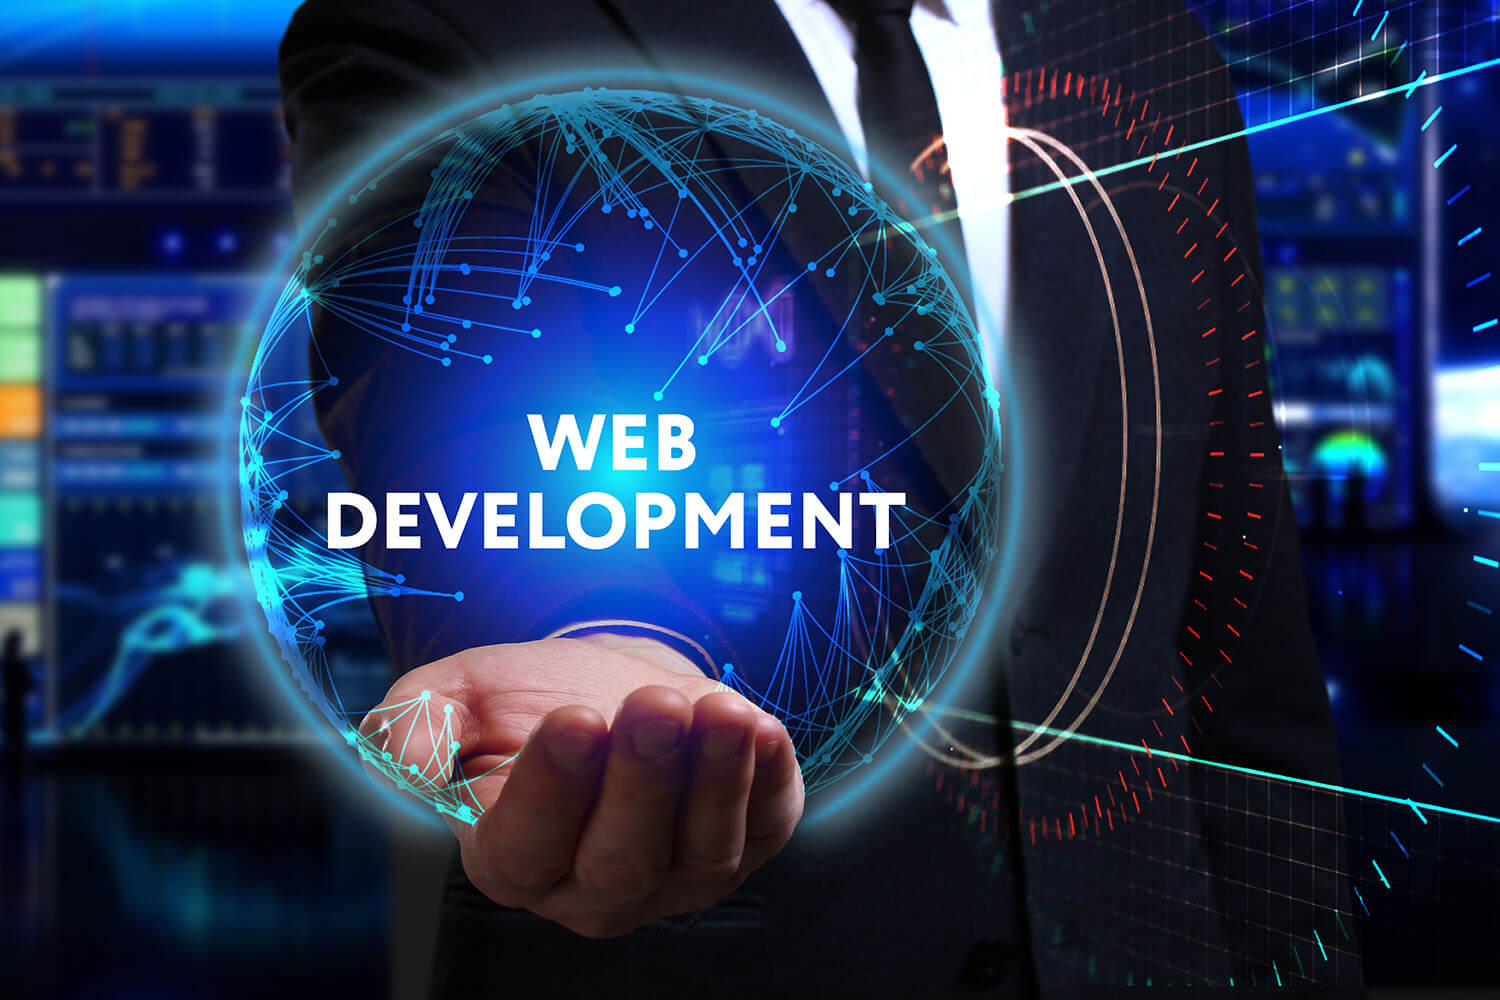
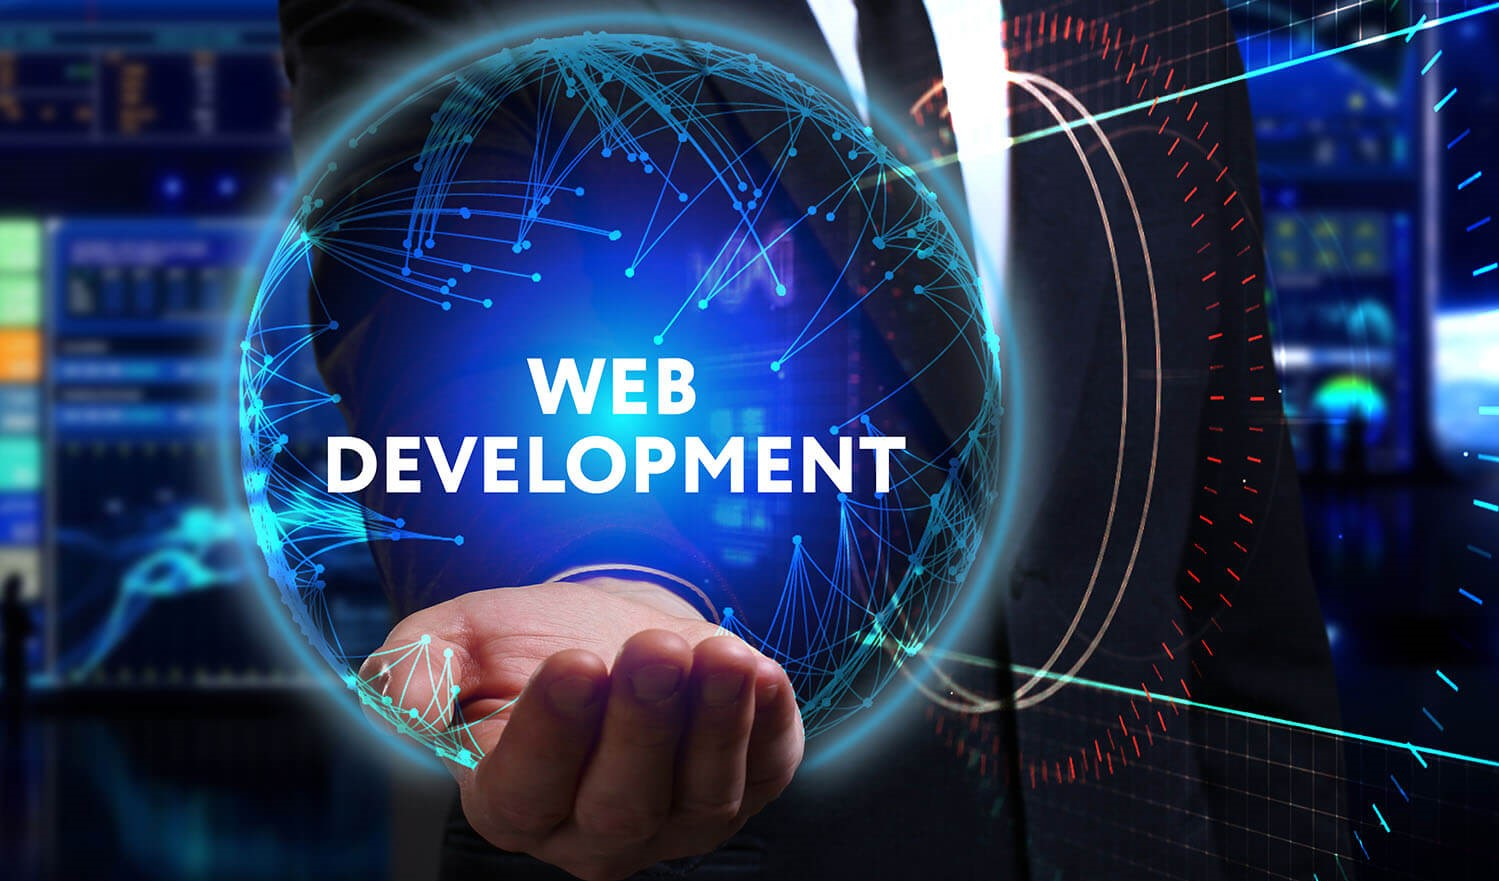
developed the main content area

diff --git a/index.html b/index.html
@@ -13,67 +13,107 @@
     <header>
       <h1>My Portfolio</h1>
       <nav>
-        <a href="#aboutMe">About Me</a>
-        <a href="#myWork">My Work </a>
-        <a href="#contactMe">Contact Me</a>
+        <a href="#about">About</a>
+        <a href="#work">Work </a>
+        <a href="#contact">Contact</a>
       </nav>
+
+      <div id="searchForm">
+        <input id='searchText' type="text" placeholder="  Search">
+        <input id='searchBtn' type="button" value="Search">
+      </div>
+
     </header>
 
     <!-- hero section where a big photo will cover background -->
     <section class="heroSection">
       <div>
-      
-      </div>
-      
+        <img src="/Week2/Portfolio-CSS-Challenge/assets/images/hero.jpg" alt="Photo about web development">
+        
+      </div>      
     </section>
-
-    <aside>
-      <p>Lorem ipsum dolor sit amet consectetur adipisicing elit. Sapiente quos veritatis cupiditate? Cumque iusto accusantium facilis aliquid, molestias in itaque quae dolorem quis voluptates ipsa perferendis sed necessitatibus quisquam expedita.
-      Ipsum asperiores magni eligendi ut excepturi hic quod tempora ipsam impedit veniam natus qui ratione animi debitis possimus quibusdam, quae placeat rem facere accusantium provident deleniti? Fugiat rem numquam obcaecati.
-      Laborum iusto sequi deleniti animi error. Expedita sint eum, maxime nam ratione modi dignissimos distinctio illo aliquam porro, eveniet praesentium sequi fugit magnam corrupti excepturi tempora accusantium dolore corporis soluta?
-      Laudantium, eum? Distinctio laborum explicabo nostrum tempora illum, quidem aliquam tenetur natus debitis id saepe sint, atque accusantium, nemo optio animi perspiciatis dolor. Incidunt corporis eum consequatur tempore libero numquam?
-      Possimus maxime in rem. Modi eaque nihil libero quibusdam earum, molestias qui perspiciatis laboriosam, ipsam debitis aut aliquid tempora reiciendis. Beatae et accusamus provident ex velit aliquam, eveniet adipisci esse.</p>
-    </aside>
+    
+    
+    
 
     <main id='main' class="mainWrapper">
-      <!-- aside section -->
-      
-      <div id="container">
+
+      <div class="container">
+        <!-- aside section -->
+        <aside>
+        <h2>About Me</h2>
+        </aside>
         <!-- about me -->
-        <section class="about" id="about">
+        <section class="content" id="about">
           <h2>About Me</h2>
+          <p>Lorem ipsum dolor sit amet consectetur, adipisicing elit. Sint voluptatum eligendi minus provident voluptas ratione, quo esse unde expedita harum dolore. Unde architecto itaque quisquam autem, facere rerum ipsa! Quo!
+            Nam quaerat sequi reprehenderit itaque numquam unde ut veniam sed repudiandae facere! Libero consectetur maxime qui alias dolorum ad amet ducimus expedita id vitae nobis illum modi quisquam, explicabo consequuntur.
+            Aliquid molestias voluptatibus, dolorum quod aut, quia repudiandae eos a nobis blanditiis soluta rerum aliquam quaerat aperiam, illo itaque? Itaque vero nobis rem dignissimos hic reprehenderit cumque libero ab veritatis.
+            Ipsum, blanditiis aperiam id placeat accusantium exercitationem architecto in aliquam consequuntur quasi, a ut, voluptatem dolores omnis expedita perferendis. Ipsam architecto amet iusto pariatur libero in distinctio laudantium omnis. Perspiciatis.
+            Facere id dolorem, tempore nobis animi possimus repellendus, commodi beatae, tempora inventore consequuntur! Itaque, voluptatum a sed quibusdam repudiandae, ipsa eaque natus tempora, eveniet dolores error ullam molestiae ipsum eius.
+          </p>
+          <p>Lorem ipsum dolor sit amet consectetur, adipisicing elit. Sint voluptatum eligendi minus provident voluptas ratione, quo esse unde expedita harum dolore. Unde architecto itaque quisquam autem, facere rerum ipsa! Quo!
+            Nam quaerat sequi reprehenderit itaque numquam unde ut veniam sed repudiandae facere! Libero consectetur maxime qui alias dolorum ad amet ducimus expedita id vitae nobis illum modi quisquam, explicabo consequuntur.
+            Aliquid molestias voluptatibus, dolorum quod aut, quia repudiandae eos a nobis blanditiis soluta rerum aliquam quaerat aperiam, illo itaque? Itaque vero nobis rem dignissimos hic reprehenderit cumque libero ab veritatis.
+            Ipsum, blanditiis aperiam id placeat accusantium exercitationem architecto in aliquam consequuntur quasi, a ut, voluptatem dolores omnis expedita perferendis. Ipsam architecto amet iusto pariatur libero in distinctio laudantium omnis. Perspiciatis.
+            Facere id dolorem, tempore nobis animi possimus repellendus, commodi beatae, tempora inventore consequuntur! Itaque, voluptatum a sed quibusdam repudiandae, ipsa eaque natus tempora, eveniet dolores error ullam molestiae ipsum eius.
+            </p>
+        </section>
+      </div>
+
+      <div class="container">
+        <!-- aside section -->
+        <aside>
+          <h2>My Work</h2>
+        </aside>
+         <!-- My Work -->
+        <section class="content container" id="work">
+          <h2>My Work</h2>
+          <p>Lorem ipsum dolor sit amet consectetur, adipisicing elit. Sint voluptatum eligendi minus provident voluptas ratione, quo esse unde expedita harum dolore. Unde architecto itaque quisquam autem, facere rerum ipsa! Quo!
+            Nam quaerat sequi reprehenderit itaque numquam unde ut veniam sed repudiandae facere! Libero consectetur maxime qui alias dolorum ad amet ducimus expedita id vitae nobis illum modi quisquam, explicabo consequuntur.
+            Aliquid molestias voluptatibus, dolorum quod aut, quia repudiandae eos a nobis blanditiis soluta rerum aliquam quaerat aperiam, illo itaque? Itaque vero nobis rem dignissimos hic reprehenderit cumque libero ab veritatis.
+            Ipsum, blanditiis aperiam id placeat accusantium exercitationem architecto in aliquam consequuntur quasi, a ut, voluptatem dolores omnis expedita perferendis. Ipsam architecto amet iusto pariatur libero in distinctio laudantium omnis. Perspiciatis.
+            Facere id dolorem, tempore nobis animi possimus repellendus, commodi beatae, tempora inventore consequuntur! Itaque, voluptatum a sed quibusdam repudiandae, ipsa eaque natus tempora, eveniet dolores error ullam molestiae ipsum eius.
+          </p>
+          <p>Lorem ipsum dolor sit amet consectetur, adipisicing elit. Sint voluptatum eligendi minus provident voluptas ratione, quo esse unde expedita harum dolore. Unde architecto itaque quisquam autem, facere rerum ipsa! Quo!
+            Nam quaerat sequi reprehenderit itaque numquam unde ut veniam sed repudiandae facere! Libero consectetur maxime qui alias dolorum ad amet ducimus expedita id vitae nobis illum modi quisquam, explicabo consequuntur.
+            Aliquid molestias voluptatibus, dolorum quod aut, quia repudiandae eos a nobis blanditiis soluta rerum aliquam quaerat aperiam, illo itaque? Itaque vero nobis rem dignissimos hic reprehenderit cumque libero ab veritatis.
+            Ipsum, blanditiis aperiam id placeat accusantium exercitationem architecto in aliquam consequuntur quasi, a ut, voluptatem dolores omnis expedita perferendis. Ipsam architecto amet iusto pariatur libero in distinctio laudantium omnis. Perspiciatis.
+            Facere id dolorem, tempore nobis animi possimus repellendus, commodi beatae, tempora inventore consequuntur! Itaque, voluptatum a sed quibusdam repudiandae, ipsa eaque natus tempora, eveniet dolores error ullam molestiae ipsum eius.
+          </p>
+          <p>Lorem ipsum dolor sit amet consectetur, adipisicing elit. Sint voluptatum eligendi minus provident voluptas ratione, quo esse unde expedita harum dolore. Unde architecto itaque quisquam autem, facere rerum ipsa! Quo!
+            Nam quaerat sequi reprehenderit itaque numquam unde ut veniam sed repudiandae facere! Libero consectetur maxime qui alias dolorum ad amet ducimus expedita id vitae nobis illum modi quisquam, explicabo consequuntur.
+            Aliquid molestias voluptatibus, dolorum quod aut, quia repudiandae eos a nobis blanditiis soluta rerum aliquam quaerat aperiam, illo itaque? Itaque vero nobis rem dignissimos hic reprehenderit cumque libero ab veritatis.
+            Ipsum, blanditiis aperiam id placeat accusantium exercitationem architecto in aliquam consequuntur quasi, a ut, voluptatem dolores omnis expedita perferendis. Ipsam architecto amet iusto pariatur libero in distinctio laudantium omnis. Perspiciatis.
+            Facere id dolorem, tempore nobis animi possimus repellendus, commodi beatae, tempora inventore consequuntur! Itaque, voluptatum a sed quibusdam repudiandae, ipsa eaque natus tempora, eveniet dolores error ullam molestiae ipsum eius.
+          </p>
+          <p>Lorem ipsum dolor sit amet consectetur, adipisicing elit. Sint voluptatum eligendi minus provident voluptas ratione, quo esse unde expedita harum dolore. Unde architecto itaque quisquam autem, facere rerum ipsa! Quo!
+            Nam quaerat sequi reprehenderit itaque numquam unde ut veniam sed repudiandae facere! Libero consectetur maxime qui alias dolorum ad amet ducimus expedita id vitae nobis illum modi quisquam, explicabo consequuntur.
+            Aliquid molestias voluptatibus, dolorum quod aut, quia repudiandae eos a nobis blanditiis soluta rerum aliquam quaerat aperiam, illo itaque? Itaque vero nobis rem dignissimos hic reprehenderit cumque libero ab veritatis.
+            Ipsum, blanditiis aperiam id placeat accusantium exercitationem architecto in aliquam consequuntur quasi, a ut, voluptatem dolores omnis expedita perferendis. Ipsam architecto amet iusto pariatur libero in distinctio laudantium omnis. Perspiciatis.
+            Facere id dolorem, tempore nobis animi possimus repellendus, commodi beatae, tempora inventore consequuntur! Itaque, voluptatum a sed quibusdam repudiandae, ipsa eaque natus tempora, eveniet dolores error ullam molestiae ipsum eius.
+            </p>
+        </section>
+      </div>
+
+      <div class="container">
+        <!-- aside section -->
+        <aside>
+          <h3>Contact Me</h3>
+        </aside>                
+        <!-- Contact Me -->
+        <section class="content" id="contact">
+          <h2>Contact Me</h2>
           <p>Lorem ipsum dolor sit amet consectetur, adipisicing elit. Sint voluptatum eligendi minus provident voluptas ratione, quo esse unde expedita harum dolore. Unde architecto itaque quisquam autem, facere rerum ipsa! Quo!
           Nam quaerat sequi reprehenderit itaque numquam unde ut veniam sed repudiandae facere! Libero consectetur maxime qui alias dolorum ad amet ducimus expedita id vitae nobis illum modi quisquam, explicabo consequuntur.
           Aliquid molestias voluptatibus, dolorum quod aut, quia repudiandae eos a nobis blanditiis soluta rerum aliquam quaerat aperiam, illo itaque? Itaque vero nobis rem dignissimos hic reprehenderit cumque libero ab veritatis.
           Ipsum, blanditiis aperiam id placeat accusantium exercitationem architecto in aliquam consequuntur quasi, a ut, voluptatem dolores omnis expedita perferendis. Ipsam architecto amet iusto pariatur libero in distinctio laudantium omnis. Perspiciatis.
           Facere id dolorem, tempore nobis animi possimus repellendus, commodi beatae, tempora inventore consequuntur! Itaque, voluptatum a sed quibusdam repudiandae, ipsa eaque natus tempora, eveniet dolores error ullam molestiae ipsum eius.</p>
         </section>
-
-        <!-- portfolio container -->
-        <section class="page-section" id="work">
-          <h2>Work</h2>
-          <p>Lorem ipsum dolor sit amet consectetur adipisicing elit. Dolor porro, officia, iure itaque, dolores natus at vel libero distinctio nesciunt eius laboriosam quibusdam! Ullam ex nam, omnis doloribus repudiandae error!
-          Sapiente earum eaque doloribus at aperiam optio, assumenda atque rem quisquam dolore quis distinctio perspiciatis reiciendis. Illum sunt esse facilis dicta reiciendis culpa dolorem. Labore quam aperiam molestias dolorem natus.
-          Soluta iure numquam voluptates animi, impedit est, quas rem, inventore doloremque voluptas perferendis fugiat ipsa dolorum accusantium omnis harum facilis vel ab! Ipsum ratione odit rerum voluptatum obcaecati adipisci laboriosam?
-          Ipsum, at. Mollitia dolore excepturi consectetur porro ipsa quod consequatur blanditiis accusamus illo pariatur laudantium debitis omnis itaque nam necessitatibus unde, possimus perspiciatis quis incidunt officiis! Consequatur corporis natus sunt.
-          Nihil odio quod necessitatibus, porro perferendis amet rerum. At doloribus ipsam quos ad dolore a magnam adipisci velit ratione quia! Voluptas optio assumenda harum iusto cumque aut, itaque officia odit.</p>
-        </section>
-
-        <!-- contact -->
-        <section class="page-section contact" id="contact">
-          <h2>Contact Me</h2>
-          <p>Lorem ipsum dolor sit amet consectetur adipisicing elit. Ab nesciunt quod tenetur corrupti a, minima tempore, et veniam nam expedita nemo dolores harum, adipisci assumenda odit repudiandae ipsum incidunt maxime!
-          Consequatur nobis at libero aperiam expedita adipisci laboriosam voluptatem, doloremque fuga. Eveniet, alias nam esse ducimus explicabo inventore? Voluptates quidem vel nulla nesciunt placeat? Sit quasi eius optio facere tenetur!
-          Distinctio perferendis beatae nisi itaque libero, aspernatur, odio minima architecto temporibus expedita aut repellendus ad molestiae est asperiores consequatur corrupti modi officiis saepe quaerat totam natus ullam! Nulla, cumque reprehenderit!
-          Similique qui debitis rem! Rerum itaque corporis, deleniti neque corrupti nisi. Animi ducimus, rerum earum maxime voluptas cumque fugit ipsa unde necessitatibus assumenda soluta quaerat dolore dignissimos dolorem, quae aliquam.
-          Voluptas quam dolorem sequi cumque similique eaque culpa debitis a dolore, veniam quisquam pariatur facere quis consequuntur veritatis inventore ea? Sequi dicta sint tempore, laboriosam culpa inventore iure animi accusamus.</p>
-      
-        </section>
-      </div>
+      </div>       
     </main>
     <footer>
-      Lorem ipsum dolor sit amet consectetur adipisicing elit. Pariatur quis, eaque distinctio, vero reprehenderit blanditiis temporibus eum sint, qui deleniti ea. Non doloremque minus, est vitae praesentium illum nostrum. Accusamus.
-      Libero aspernatur error, praesentium ipsa odio a ipsum possimus exercitationem recusandae corrupti dicta! Magnam facere possimus ut atque? Saepe aliquam voluptatum eveniet itaque tempore! Ullam, molestias iure. Consectetur, saepe quisquam!
+      <p>My first portfolio website &copy;2023</p>
     </footer>
   </body>
 </html>

diff --git a/assets/css/style.css b/assets/css/style.css
@@ -10,63 +10,135 @@ body {
 }
 
 body {
+  background: rgb(52, 58, 64);
+  color: rgb(250, 250, 250);
   font-family: sans-serif;
   min-height: 100vh;
 }
 
-header {
-  height: 10vh;
-  display: flex;
-  background: rgb(52, 58, 64);
-  color: rgb(250, 250, 250);
-  justify-content: space-around;
-  align-items:center;
+header {  
+  display: grid;
+  grid-template-columns: 1fr 1fr 1fr;
+  justify-items: center;
+  align-items: center;
+  
 }
 
 h1{
   font-size: 50px;
-  margin: 10px;
-}
-
-nav {
-  min-width: 400px;
-  display: flex;
-  justify-content: space-evenly;
-  align-items: center;
+  margin: 20px;
 }
 
 header nav {
-  width: auto;
-  display: flex;
-  flex-direction: row;
-  justify-content: space-around;
+  display: grid;
+  grid-template-columns: 1fr 1fr 1fr;  
+  justify-content:space-between;
+  align-items: center;
 }
 
 nav a {
+  font-size: 25px;
+  font-weight: bold;
   color: #fff;
   text-decoration: none;
 }
 
-.heroSection {
-  height:90vh;
-  border: 3px solid;
-  background-image: url('/Week2/Portfolio-CSS-Challenge/assets/images/hero.jpg');
+#searchText, #searchBtn {
+  min-height: 30px;
+  border-radius: 10px;
+}
+
+#searchText {
+  min-width: 150px;
 
 }
 
-main {
+#searchBtn {
+  min-width: 80px;
+  background-color: #2f7241;
+  color: white;
+      
+}
+
+.heroSection img {
+  size: cover;
   width: 100%;
-  display: grid;
-  grid-template-columns: 1fr 1fr 1fr 1fr;
+  height: auto;  
+}
+
+#main {
+  
+  width: 100%;
+  
 }
 
 aside {
+  display: grid;
+  grid-template-columns: 1fx;
+  justify-self: end;
+  align-items: center;
   width: 150px;
-  border: 2px solid;
 }
 
-main {
-  background: lightseagreen;
-  padding: 15px;
-  border: 3px solid #555;
+.container {
+  display: grid;
+  grid-template-columns: 20% 80%;
+  justify-content: space-around;
+}
+
+.content {
+  width: 90%;
+  border-left: 10px green solid;
+  border-radius: 15px;
+  background-color: rgb(255, 255, 255);
+  color: rgb(52, 58, 64);
+  display: grid;
+  grid-template-columns: 100%;
+  padding: 20px;   
+  margin: 30px; 
+}
+
+footer {
+  display: grid;
+  justify-content: center;
+  align-items: center;
+  padding-top: 20px;
+  padding-bottom: 600px;
+  
+
+}
+
+
+
+
+/* Media Query */
+
+@media screen and (max-width: 1024px) {
+  header {
+    grid-template-columns: 1fr 1fr;
+  }
+
+  #searchForm {
+    margin: 15px 20px;
+    align-self: center;
+  }
+
+  .container {
+    grid-template-columns: 0fr 80%;
+  }
+  
+  
+}
+
+@media screen and (max-width: 768px) {
+  header {
+    height: auto;
+    display: grid;
+    grid-template-columns: auto;
+    justify-content:space-around;
+    align-items: center;
+    background: rgb(52, 58, 64);
+    color: rgb(250, 250, 250);
+  }
+
 }
